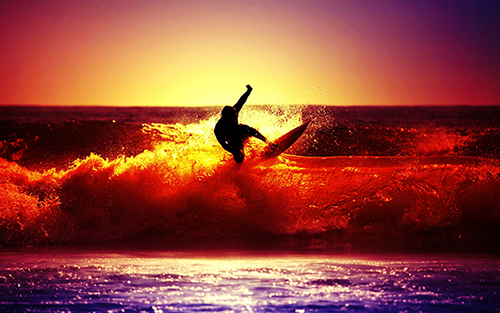
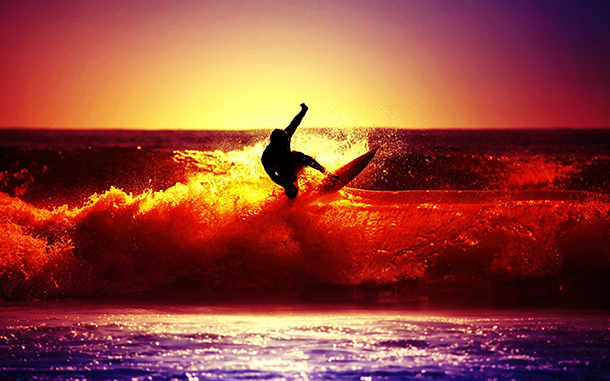
Enlarged image

diff --git a/index.html b/index.html
@@ -22,7 +22,7 @@
                 Lorem ipsum dolor sit amet, consectetur adipiscing elit. Morbi enim nibh, tempus rhoncus aliquam id, hendrerit non enim. Vestibulum eu tellus massa, vel interdum diam. Maecenas risus neque, dapibus vitae bibendum at, auctor sed neque. Vivamus dui felis, dignissim ut malesuada eu, consequat sed odio. Sed suscipit, magna et malesuada dignissim, libero nunc rhoncus purus, posuere vulputate nisl justo nec elit. Praesent adipiscing odio nec enim consectetur semper. Vivamus sollicitudin dapibus lacus a consectetur. Suspendisse quis massa vitae turpis tincidunt ultricies. Donec augue elit, mollis non malesuada a, pulvinar tincidunt orci. Vivamus scelerisque dapibus tincidunt. Pellentesque habitant morbi tristique senectus et netus et malesuada fames ac turpis egestas. Cum sociis natoque penatibus et magnis dis parturient montes, nascetur ridiculus mus. Vivamus turpis nisl, adipiscing in pellentesque sed, bibendum sed arcu. Vestibulum tincidunt mattis est nec dapibus. Nam faucibus, libero nec accumsan convallis, massa orci sollicitudin eros, vel vehicula enim est a orci.
             </p>
             <div id="image">
-                <img src="images/img.jpeg" alt="your picture description goes here" width="500" height="313"/>
+                <img src="images/img.jpeg" alt="your picture description goes here" width="610" height="381"/>
             </div>
             <h2 id="tableTitle">Usability Testing</h2>
             <table>
